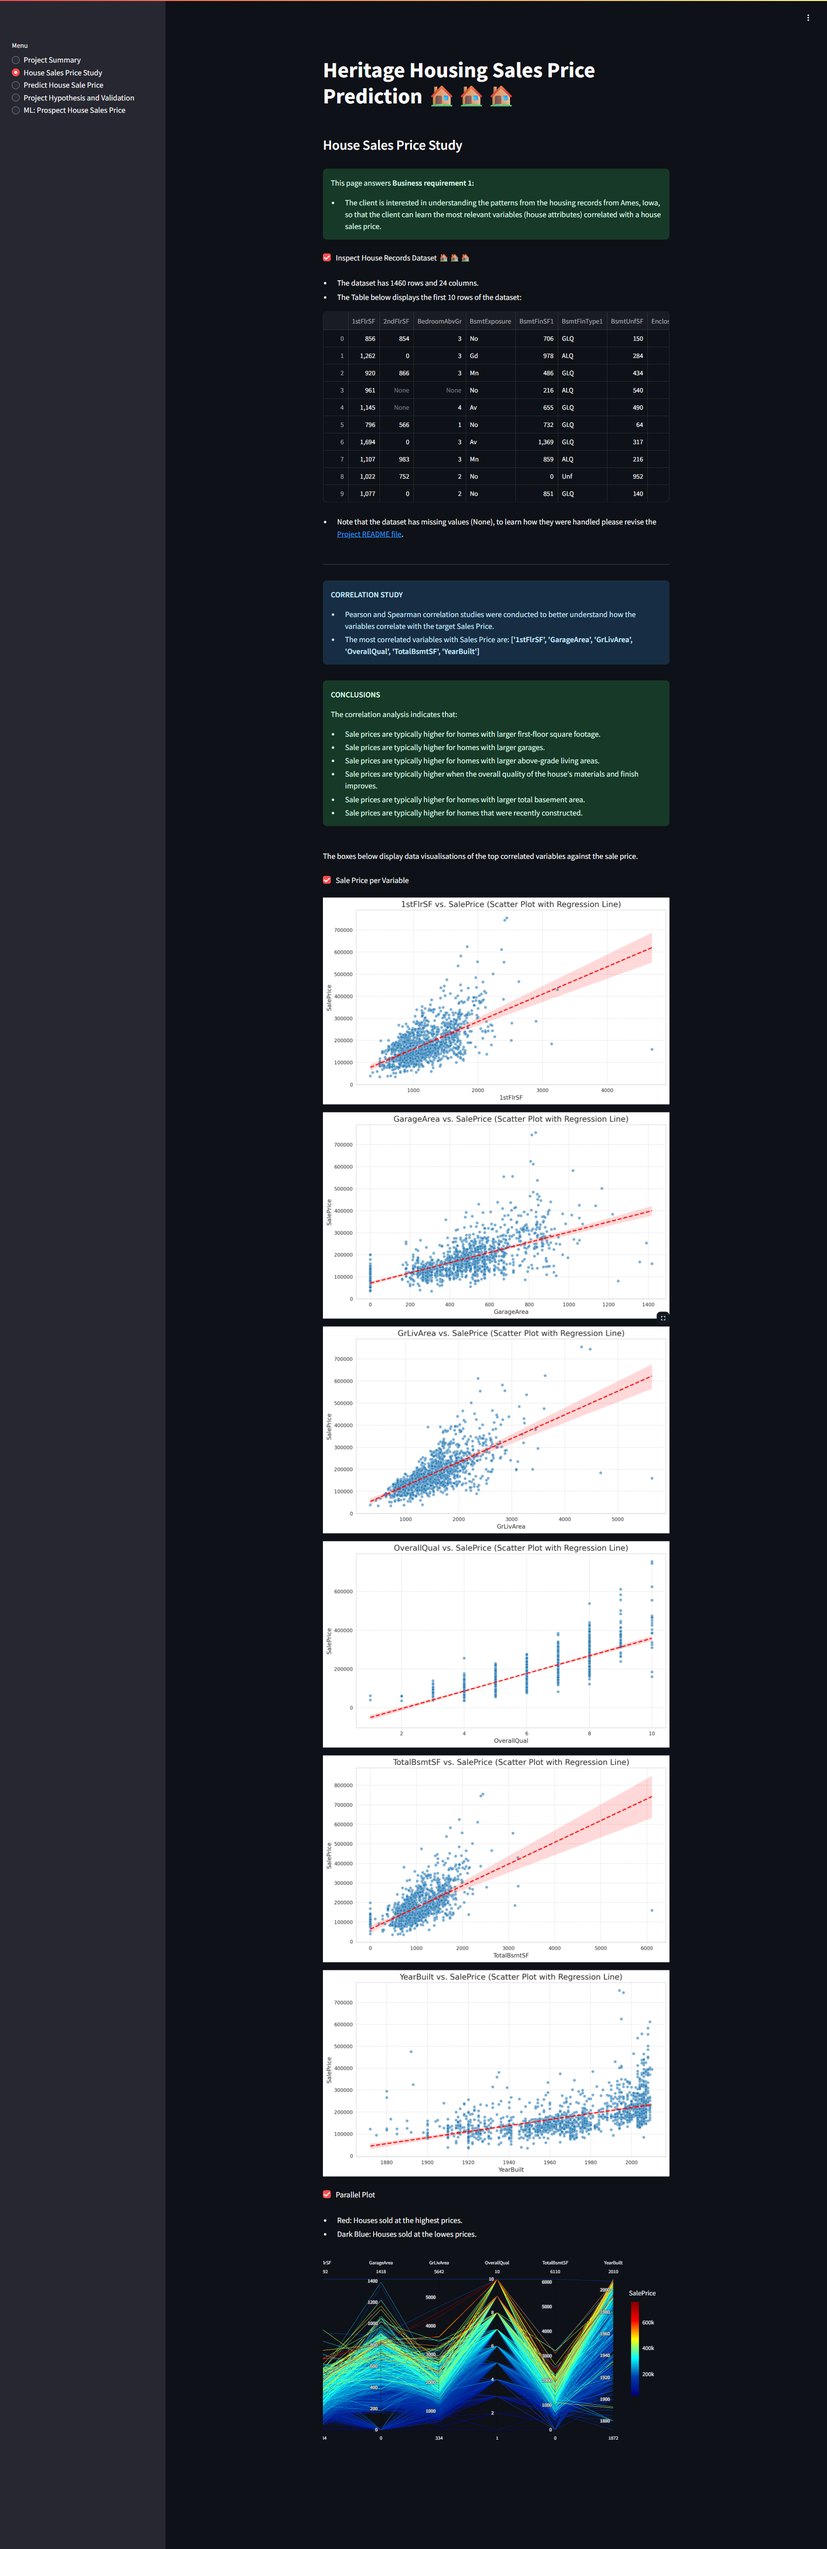
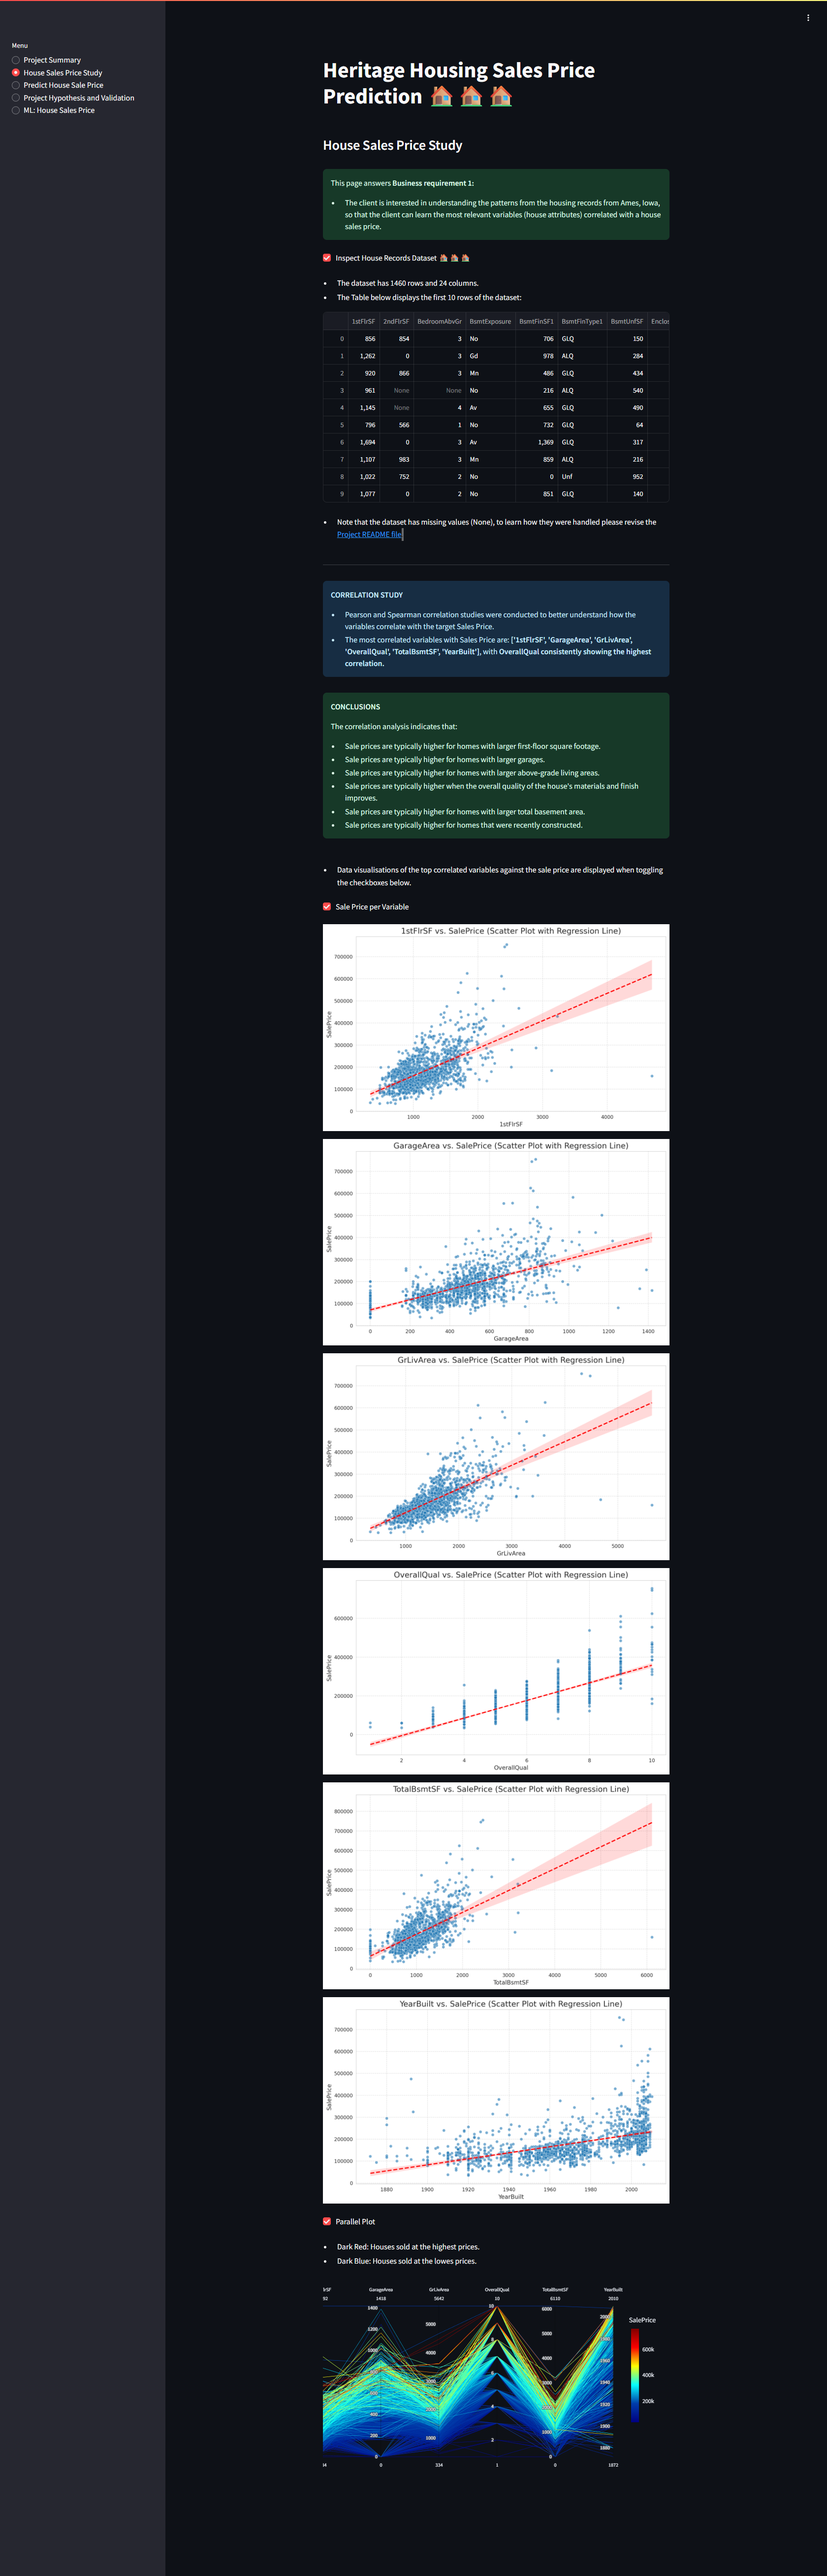
Update Page2 and 3 screenshots

diff --git a/app_pages/page4_project_hypothesis.py b/app_pages/page4_project_hypothesis.py
@@ -12,7 +12,7 @@ def page_project_hypothesis_body():
    # conclusions taken from "02 - Churned Customer Study" notebook
     st.success(
         f"**HYPOTHESIS 1**\n\n"
-        f"*We hypothesize that that a house's dimensional attributes will "
+        f"*We hypothesize that a house's dimensional attributes will "
         f"exhibit a significant correlation with its sale price (e.g., larger "
         f"above grade living area (GrLivArea) fetch higher sale prices). "
         f"Consequently, we expect to find strong positive correlations between "
@@ -21,7 +21,7 @@ def page_project_hypothesis_body():
         f"GarageArea, MasVnrArea, EnclosedPorch, OpenPorchSF, and/or "
         f"WoodDeckSF.*\n\n"
         f"**Conclusion:**\n"
-        f"  * Our house sale price correlation study confirmed the hypothesis"
+        f"  * Our house sale price correlation study confirmed the hypothesis "
         f"that a property's dimensional attributes significantly correlate "
         f"with its sales price. Indeed, the analysis identified 1stFlrSF, "
         f"GarageArea, GrLivArea, and TotalBsmtSF as the most influential "
@@ -39,7 +39,7 @@ def page_project_hypothesis_body():
         f"**Conclusion:**\n"
         f"  * Our correlation analysis identified YearRemodAdd as being within "
         f"the top 10 variables exhibiting a moderate correlation to SalePrice "
-        f"(Pearson coefficient: 0.51, Spearman coefficient: 0.57). "
+        f"(Pearson coefficient: 0.51, Spearman coefficient: 0.57).\n"
         f"  * Furthermore, feature importance analysis from our "
         f"machine learning pipeline confirmed YearRemodAdd as a significant "
         f"and influential predictor within the model.\n"
@@ -67,7 +67,7 @@ def page_project_hypothesis_body():
         f"our machine learning model.\n"
         )
     
-    st.write(
+    st.success(
         f"Considering the consistent high correlation observed and its top "
         f"ranking in our machine learning model's feature importance analysis, "
         f"**OverallQual** emerges as the most significant feature in "
